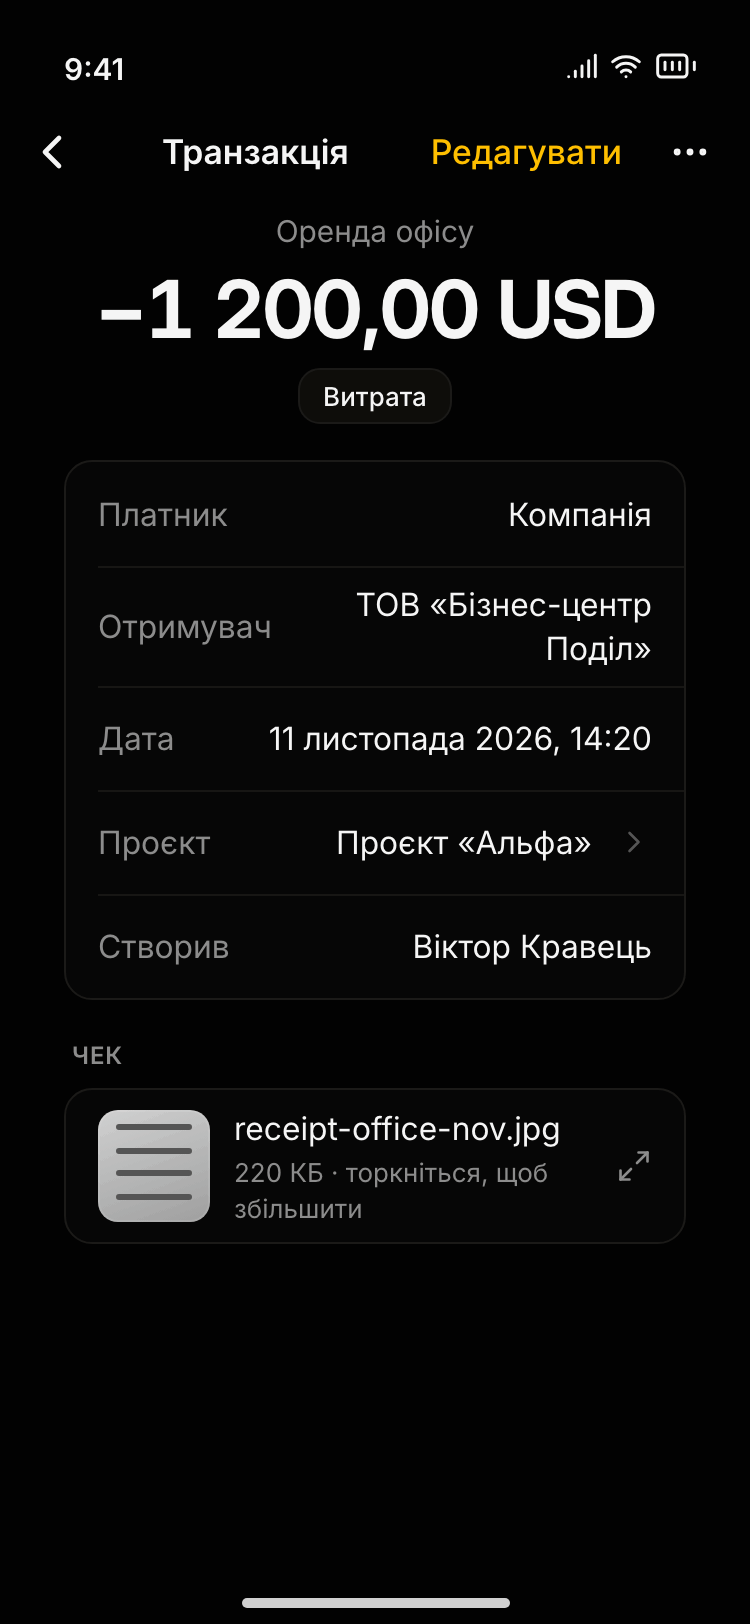
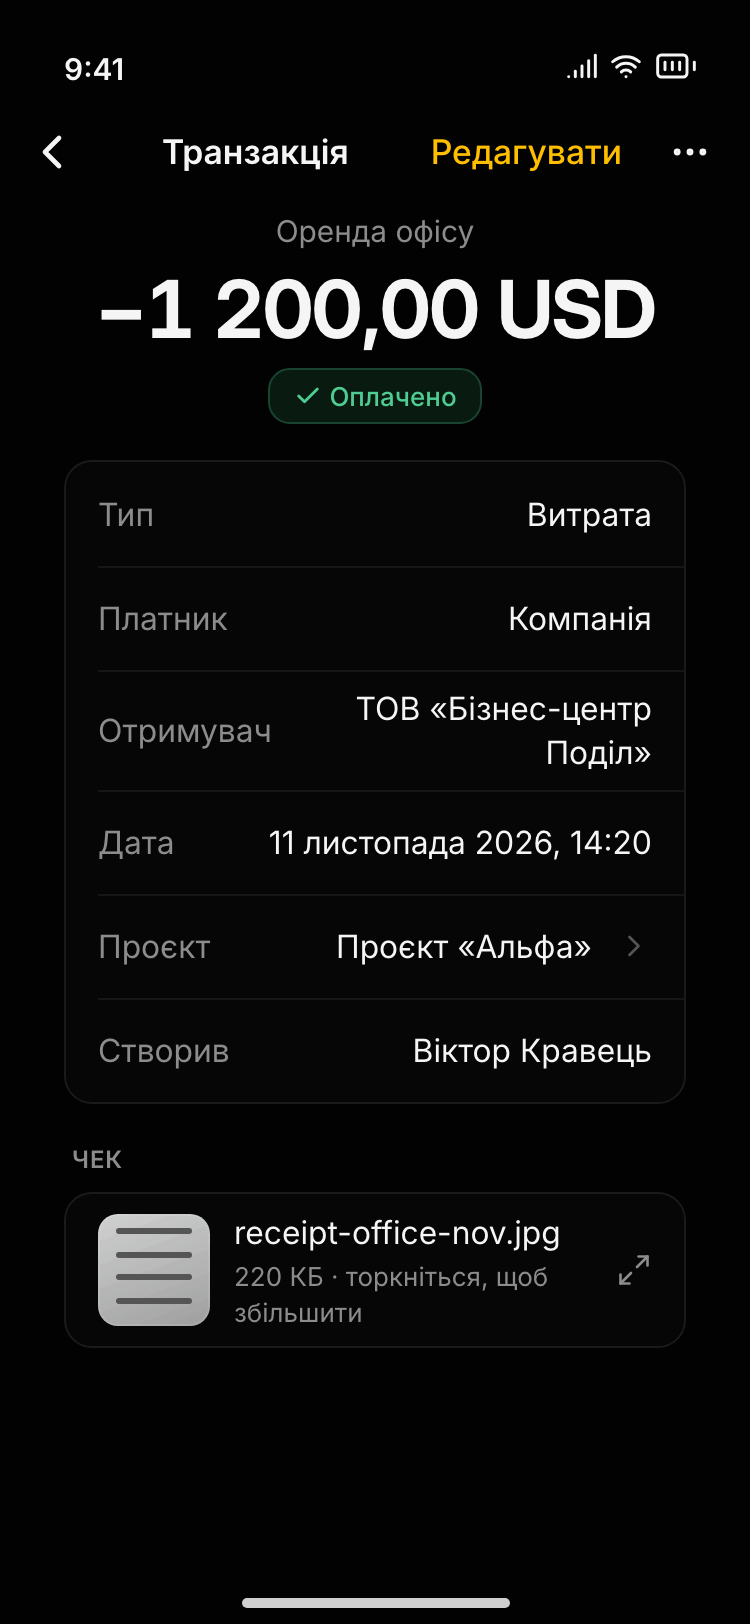
wip: one detail anatomy, tablet pane = phone detail body, list scroller (fix7 C)

diff --git a/docs/design/screens/_foundation/shell-v2.md b/docs/design/screens/_foundation/shell-v2.md
@@ -159,6 +159,14 @@ tab bar holds **4 destinations + «Ще»**. «Ще» holds everything else, gro
   highlight); list + detail side by side only from **≥ 900** (`tablet-two-pane-1000`: rail 80, list
   360, detail 560 at 1000, the selected row `bg-raised` + `aria-current`). Touch heights (inputs 48, buttons 44): density follows `(pointer: coarse)`,
   not width.
+- **The detail pane at ≥ 900 is the pushed detail page body**, not a second layout: the same
+  component renders both (`primitives-v2/detail-txn-375` and the right pane of
+  `tablet-two-pane-1000`). One field set (Тип, Платник, Отримувач, Дата, Проєкт, Створив) and **one
+  status-pill slot under the amount** («Оплачено», «Очікує», …); the type is a field, never a second
+  pill. The pane keeps the page's top bar without the back button: title «Транзакція» + «Редагувати» +
+  «Інші дії». Under 900 the same body is pushed as a page.
+- **The list pane scrolls as one block** (search, chips, section heads and group cards in one
+  scroller): a group card never shrinks to the pane height and never clips its last row.
 
 ---
 
@@ -225,7 +233,7 @@ tab bar holds **4 destinations + «Ще»**. «Ще» holds everything else, gro
 | `state-impersonation-375.png`        |   375 | Impersonation banner                                  |
 | `tablet-rail-768.png`                |   768 | Rail with every destination, one pane                 |
 | `tablet-rail-more-768.png`           |   768 | 768 × 700 window: overflow «Ще» popover               |
-| `tablet-two-pane-1000.png`           |  1000 | ≥ 900: rail 80 · list 360 · detail 560                |
+| `tablet-two-pane-1000.png`           |  1000 | ≥ 900: rail 80 · list 360 · detail 560 (detail body)  |
 | `desktop-sidebar-1024.png`           |  1024 | Sidebar + header + dense table                        |
 | `desktop-sidebar-collapsed-1024.png` |  1024 | Collapsed rail with tooltip                           |
 | `desktop-sidebar-1440.png`           |  1440 | Wide: extra column, selected-row bar                  |

diff --git a/docs/design/screens/_foundation/primitives-v2.md b/docs/design/screens/_foundation/primitives-v2.md
@@ -123,9 +123,11 @@ row with a detail opens the same menu as a shortcut, never the only path. Rows s
 the home of that row's swipe actions. Inline title + back; on the right a 44 px text button
 «Редагувати» (the edit entry) and a 44 px «…» (`aria-label` «Інші дії», `aria-haspopup="menu"`) for the
 rest (delete asks with the action sheet). **Transaction:** the description, the amount 40/46 700
-`tabular-nums` (never truncated), the type pill, then a key-value group (Платник, Отримувач, Дата,
-Проєкт as a link row, Створив; long values wrap, they do not truncate), then «Чек»: a 56 px thumbnail
-row («торкніться, щоб збільшити», `aria-label` «Переглянути чек на весь екран»). A link receipt is the
+`tabular-nums` (never truncated), **one status-pill slot** under it («Оплачено» here), then one
+key-value group (Тип, Платник, Отримувач, Дата, Проєкт as a link row `<a>`, Створив; long values wrap,
+they do not truncate), then «Чек»: a 56 px thumbnail row, a real `<button>` («торкніться, щоб
+збільшити», `aria-label` «Переглянути чек на весь екран»). This body is the one detail anatomy: the
+≥ 900 detail pane renders the same component (`shell-v2.md` §3). A link receipt is the
 same row with the host name and opens in the browser. The tap opens the **full-screen viewer**
 (`detail-txn-receipt-375`): a `role="dialog"` on black, the file name, a 44 px ✕ «Закрити» top-left,
 pinch and double-tap to zoom, Esc and a swipe down also close, focus returns to the thumbnail.
